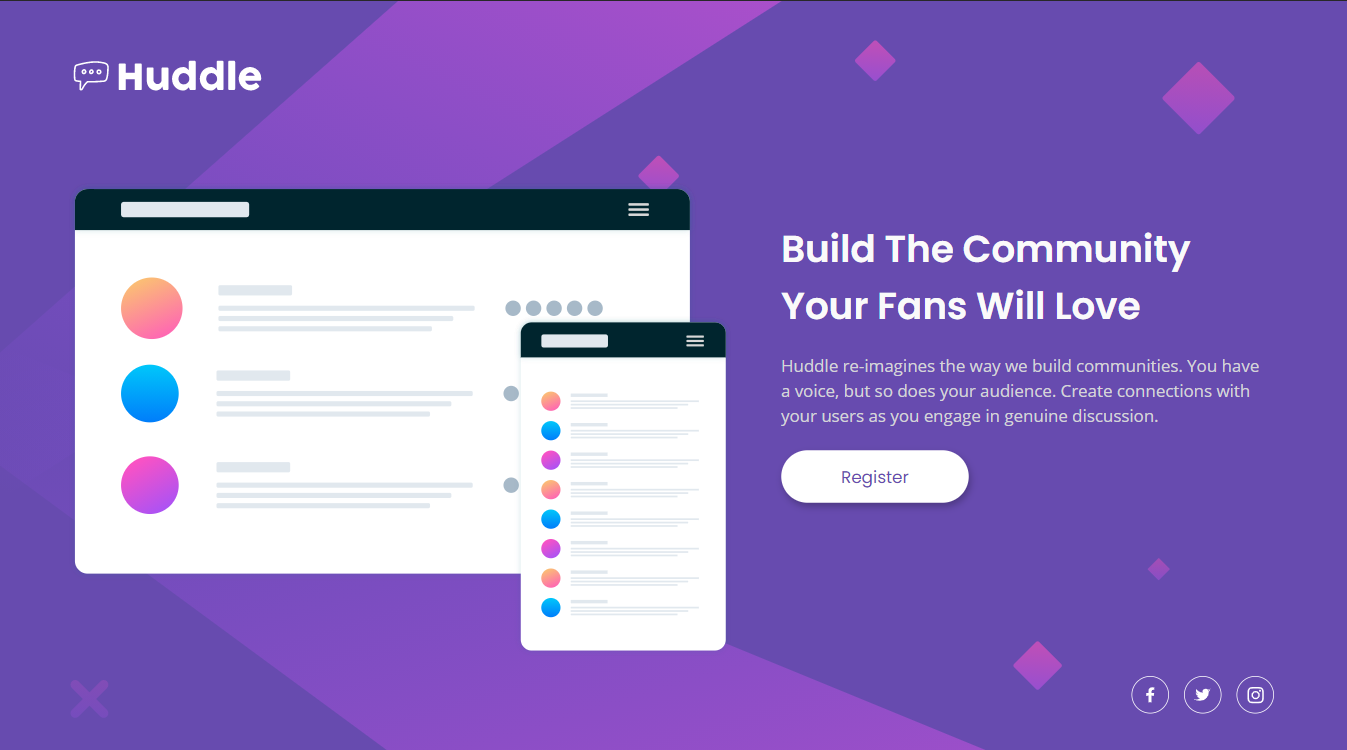
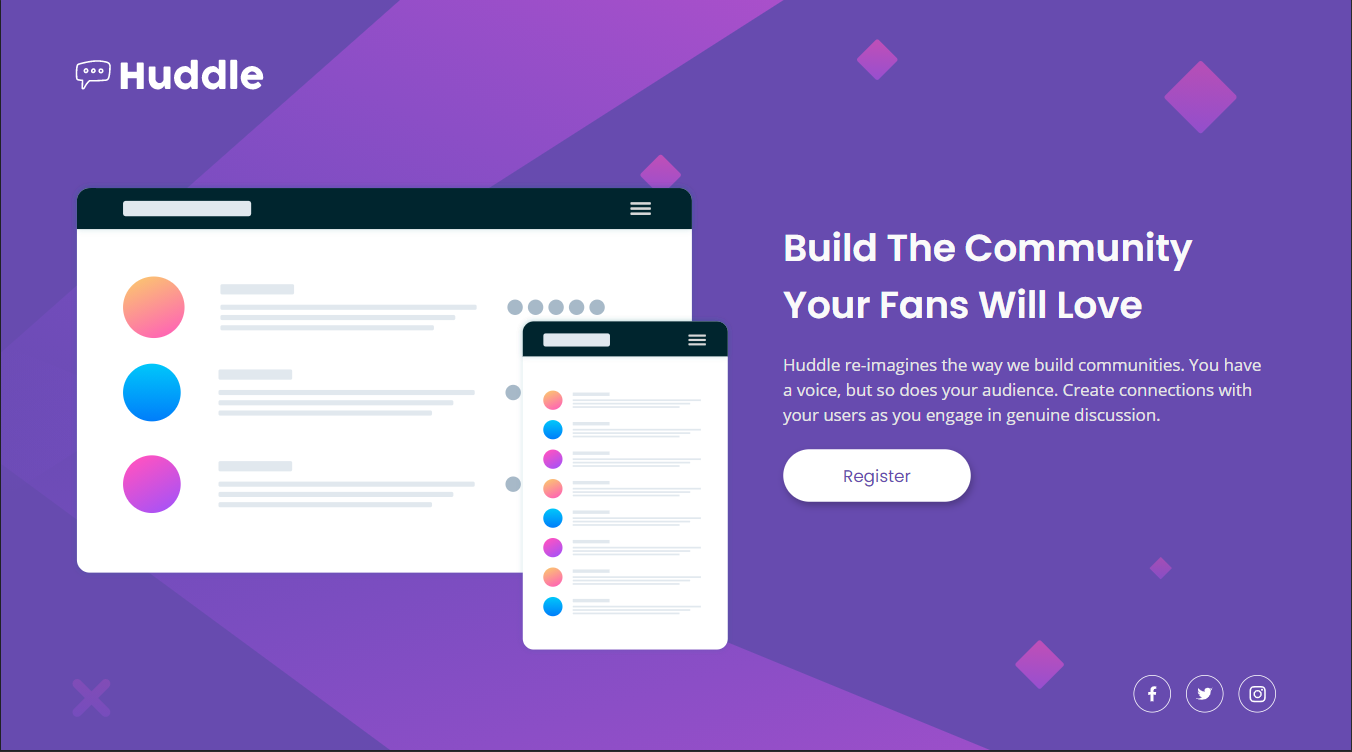
Update Readme

diff --git a/dist/css/styles.css b/dist/css/styles.css
@@ -184,12 +184,12 @@ a, a:visited, a:hover {
   font-family: 'Open Sans', sans-serif;
   font-size: 16px;
   font-weight: 400;
-  color: #D4D4D8;
+  color: #E5E5E5;
   line-height: 1.5;
   margin-top: 14px;
 }
 
-@media (min-width: 90em) {
+@media (min-width: 75em) {
   .content__info p {
     font-size: 18px;
     margin-top: 20px;

diff --git a/scss/_variables.scss b/scss/_variables.scss
@@ -2,5 +2,5 @@
 
 $violet: hsl(257, 40%, 49%);
 $softMagenta: hsl(300, 69%, 71%);
-$lightGray: #D4D4D8;
+$lightGray: #E5E5E5;
 $veryLightGray: #FAFAFA;
